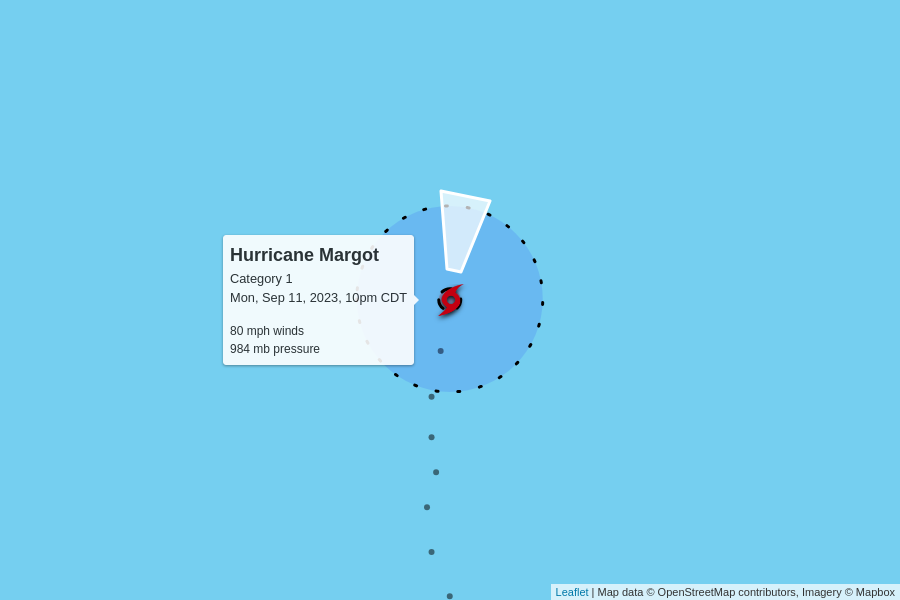
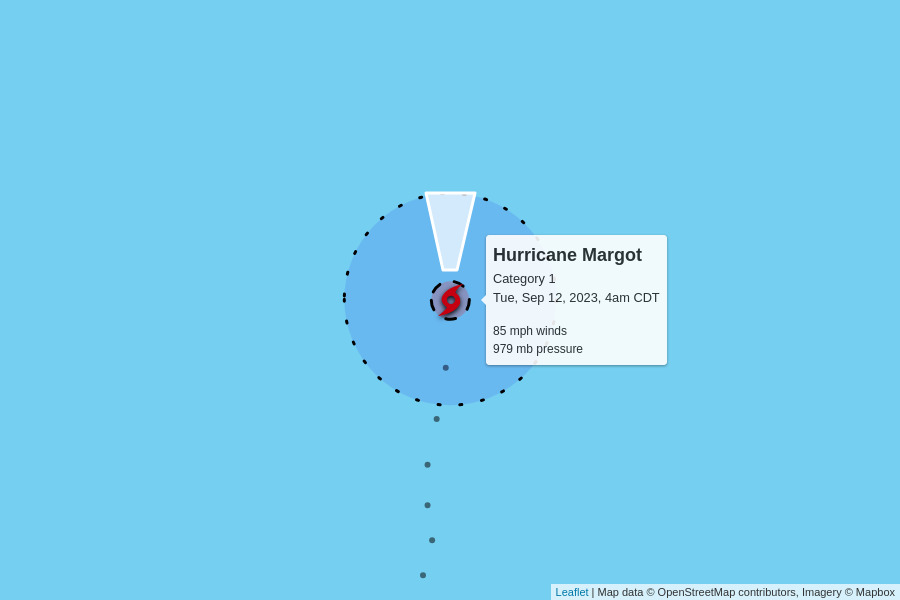
automatic update

Changed region(s): [[0.2489, 0.3, 0.7467, 0.63], [0.4978, 0.99, 0.5289, 1.0], [0.4667, 0.9, 0.4978, 0.93]]

diff --git a/docs/index.html b/docs/index.html
@@ -104,7 +104,7 @@
         <td colspan="6" class="storm category-3" >
           <h2>
             Hurricane Lee - Category 3
-            <p class="updated">last updated <span data-time>2023-09-12T03:00:00.000Z</span></p>
+            <p class="updated">last updated <span data-time>2023-09-12T09:00:00.000Z</span></p>
           </h2>
         </td>
       </tr>
@@ -124,7 +124,7 @@
         <td>
           7 mph to the west-northwest
           <br/>
-          <span style="display: inline-block; font-size: 1.5em; transform: rotate(295deg);">↑</span>
+          <span style="display: inline-block; font-size: 1.5em; transform: rotate(290deg);">↑</span>
         </td>
         <td><a href="https://raw.githubusercontent.com/mgwalker/atlantic-hurricanes/main/data/csv/AL132023.csv">AL132023.csv</a></td>
         <td><a href="https://www.nhc.noaa.gov/archive/2023/LEE.shtml?">NHC advisories</a></td>
@@ -148,7 +148,7 @@
         <td colspan="6" class="storm category-1" >
           <h2>
             Hurricane Margot - Category 1
-            <p class="updated">last updated <span data-time>2023-09-12T03:00:00.000Z</span></p>
+            <p class="updated">last updated <span data-time>2023-09-12T09:00:00.000Z</span></p>
           </h2>
         </td>
       </tr>
@@ -163,12 +163,12 @@
       </tr>
       <tr>
         <td class="spacer"></td>
-        <td>80 mph<br>+5 mph since last update</td>
-        <td>984 mb<br>-4 mb since last update</td>
+        <td>85 mph<br>+5 mph since last update</td>
+        <td>979 mb<br>-5 mb since last update</td>
         <td>
-          12 mph to the north
+          13 mph to the north
           <br/>
-          <span style="display: inline-block; font-size: 1.5em; transform: rotate(10deg);">↑</span>
+          <span style="display: inline-block; font-size: 1.5em; transform: rotate(360deg);">↑</span>
         </td>
         <td><a href="https://raw.githubusercontent.com/mgwalker/atlantic-hurricanes/main/data/csv/AL142023.csv">AL142023.csv</a></td>
         <td><a href="https://www.nhc.noaa.gov/archive/2023/MARGOT.shtml?">NHC advisories</a></td>
